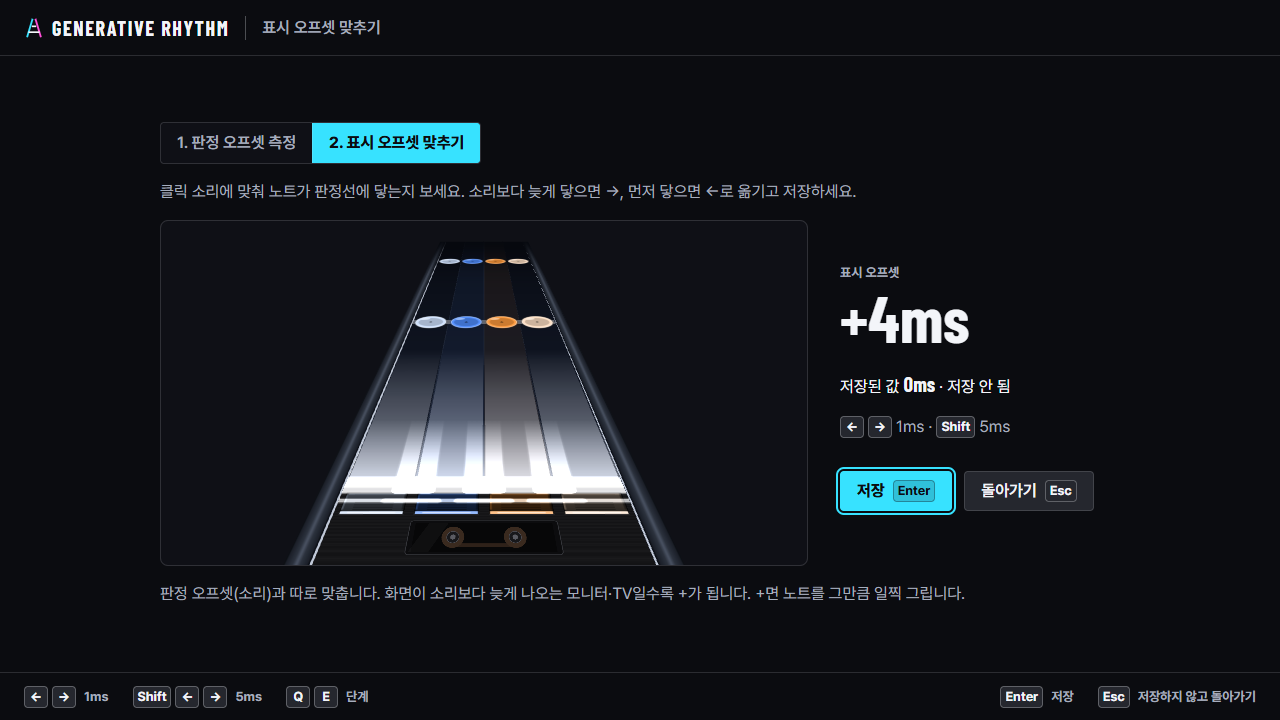
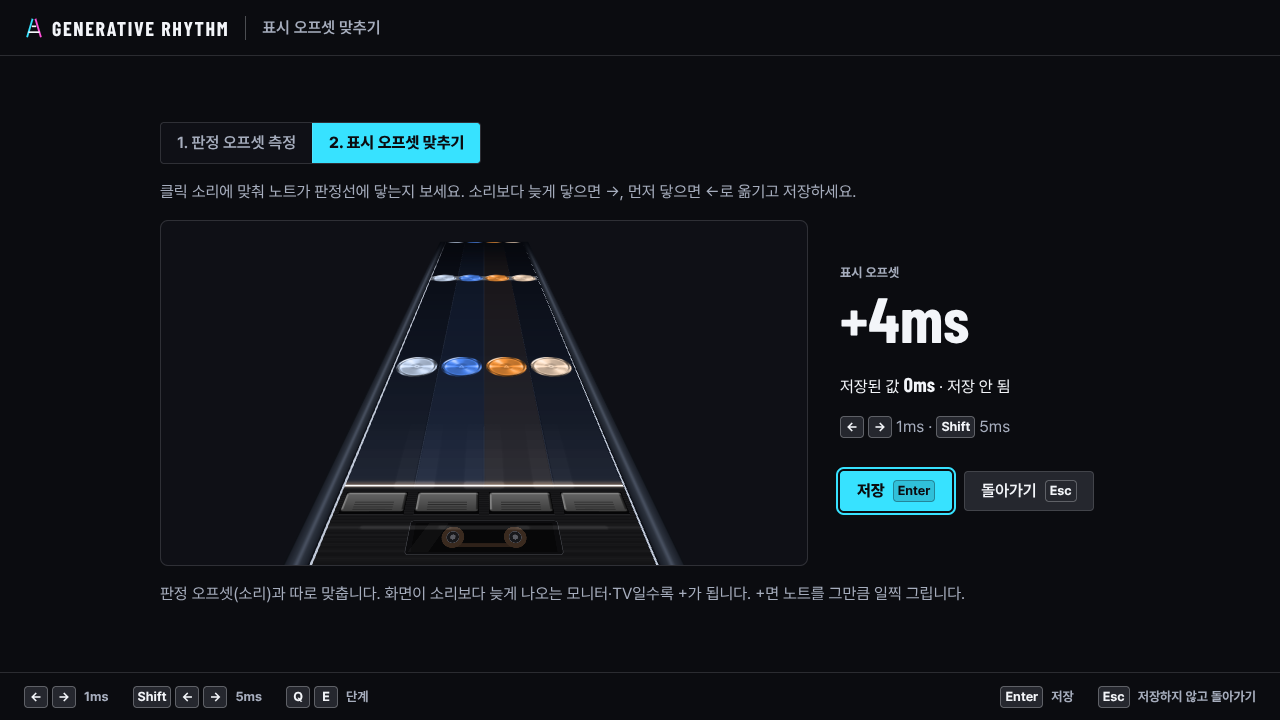
Docs: the club, crystal and neon sets, with screenshots
README: a screenshot of each set in a colourway of its own (29-club-silver,
30-crystal-rosegold, 31-neon-burgundy, 7K+1S) next to 28-mecha-red; the
crystal skin's screenshot with the crystal set (별 4각, 크리스털, 크리스털
파편) and the 6K+FX ones' captions with the club notes and gear; the note
families and their long notes as the sets draw them (records, cut gems, neon
stars; capsule, prism, neon tube), all four marking every key; the gears
drawn from the sets and every gear's colourways; the four sets in the
credits; the unit test count (367) and the e2e test of the three sets (99).
The screenshots whose round or star notes, mixer, crystal or neon gear are
now drawn from art are shot again.

ARCHITECTURE: the three sets in the gear, the note shapes (noteShapeOf, the
gem in a bar's depth) and the skin textures (the crystal set listed as gem/,
the hits' code stand-ins), and a row for the sets. TESTING: the manual check
of each set and its colourways, and of their bars over half the keys. The
screenshot spec shoots the crystal skin with the crystal hit and each set in
a colourway.

고친 문제:
- 문서와 스크린샷에 클럽·크리스털·네온 세트가 없었고, 원형·별 노트와 믹서·크리스털·네온 기어를 코드 그림 그대로 설명했다. 세트마다 부위·기어 색·그림이 없을 때의 동작을 적고 스크린샷을 더하고 다시 찍었다.

Claude-Session: https://claude.ai/code/session_01BwEeGPydwWxbHMk4SP9G9k

diff --git a/client/e2e/screenshots.spec.ts b/client/e2e/screenshots.spec.ts
@@ -325,7 +325,7 @@ test('play: the flat PLANE camera, with the judge counter and a pacemaker', asyn
   await shot(page, '20-play-plane');
 });
 
-test('play: four of the skins, and the mecha set in a gear colour of its own', async ({ page }) => {
+test('play: four of the skins, and the four sets each in a gear colour of its own', async ({ page }) => {
   // also runs on its own (-g "four of the skins"): makes the showcase song when it is missing
   await page.goto('/');
   const songs = (await (await page.request.get('/api/songs')).json()).songs as { title: string }[];
@@ -333,7 +333,7 @@ test('play: four of the skins, and the mecha set in a gear colour of its own', a
   // each with the camera it was drawn for and the parts that suit it (the skin draws colours, track
   // and type only); FEVER off: its tint would cover the skins' rail colours
   for (const [skin, keyMode, name, cameraPreset, parts] of [
-    ['glass', '7K+1S', '15-skin-crystal', 'SDVX', { note: 'star4', side: 'bar', deck: 'crystal', hit: 'shards' }],
+    ['glass', '7K+1S', '15-skin-crystal', 'SDVX', { note: 'star4', side: 'bar', deck: 'crystal', hit: 'crystal' }],
     ['jewel', '6K+FX', '16-skin-jewel', 'SDVX', { note: 'chamfer', side: 'bar', deck: 'jewel', hit: 'shards' }],
     ['arcade', '8K', '17-skin-arcade', 'FLAT', { note: 'chamfer', side: 'bar', deck: 'arcade', hit: 'mecha' }],
     ['pop', '4K', '18-skin-pop', 'SDVX', { note: 'round', side: 'bar', deck: 'candy', hit: 'bubbles' }],
@@ -343,12 +343,18 @@ test('play: four of the skins, and the mecha set in a gear colour of its own', a
     await autoplayFor(page, 14_200);
     await shot(page, name);
   }
-  // the mecha set with its gear in red, the turntable in the scratch lane
-  const mecha = { note: 'chamfer', side: 'bar', deck: 'arcade', deckColour: 'red', hit: 'mecha' };
-  await settings(page, { lastKeyMode: '7K+1S', skin: 'arcade', parts: mecha, cameraPreset: 'SDVX', hiSpeed: 3, fever: 'OFF' });
-  await selectShowcase(page, '7K+1S', 'MAXIMUM');
-  await autoplayFor(page, 14_200);
-  await shot(page, '28-mecha-red');
+  // each set with its gear in a colourway other than its own, its module in the scratch lane
+  for (const [skin, parts, name] of [
+    ['arcade', { note: 'chamfer', side: 'bar', deck: 'arcade', deckColour: 'red', hit: 'mecha' }, '28-mecha-red'],
+    ['club', { note: 'round', side: 'bar', deck: 'mixer', deckColour: 'silver', hit: 'club' }, '29-club-silver'],
+    ['glass', { note: 'star4', side: 'bar', deck: 'crystal', deckColour: 'rosegold', hit: 'crystal' }, '30-crystal-rosegold'],
+    ['neon', { note: 'star5', side: 'bar', deck: 'neon', deckColour: 'burgundy', hit: 'neon' }, '31-neon-burgundy'],
+  ] as const) {
+    await settings(page, { lastKeyMode: '7K+1S', skin, parts, cameraPreset: 'SDVX', hiSpeed: 3, fever: 'OFF' });
+    await selectShowcase(page, '7K+1S', 'MAXIMUM');
+    await autoplayFor(page, 14_200);
+    await shot(page, name);
+  }
 });
 
 test('play: the gears for any skin, each with notes, side notes and a hit effect picked apart from the skin', async ({ page }) => {
